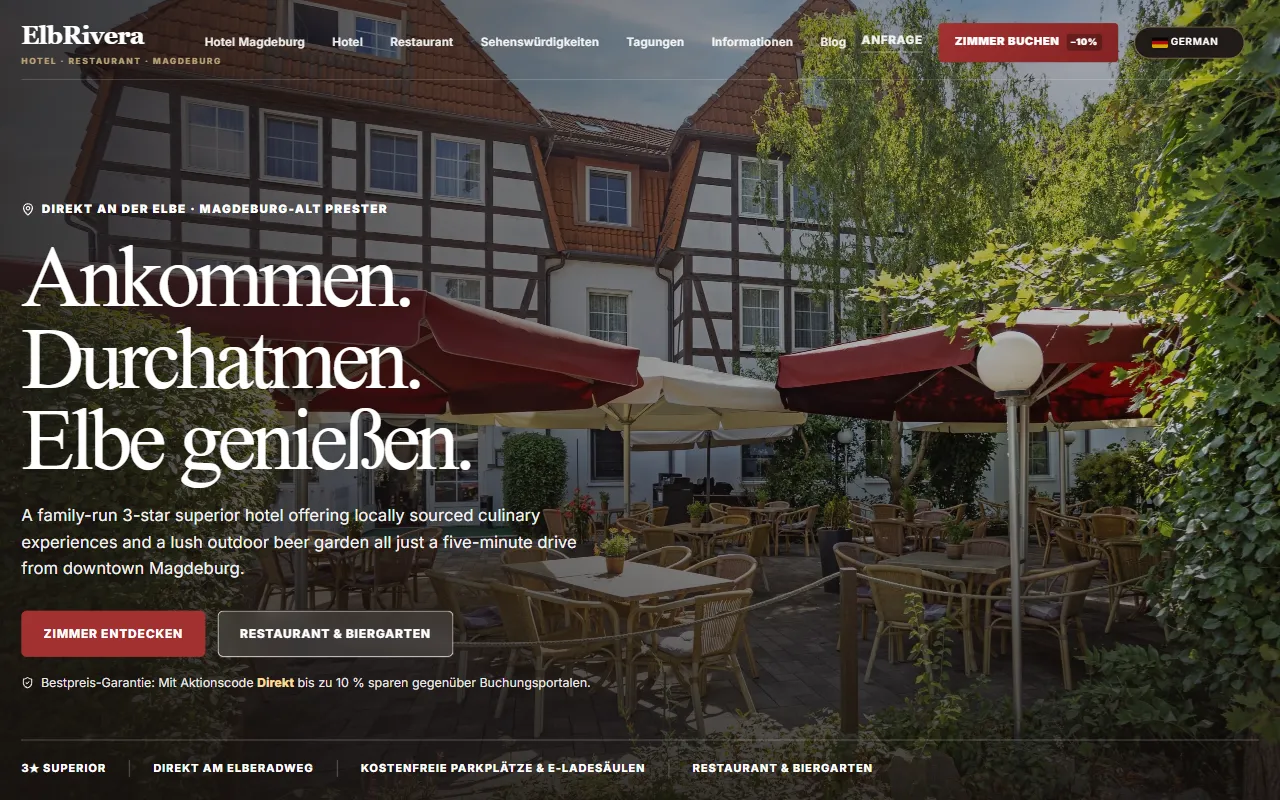
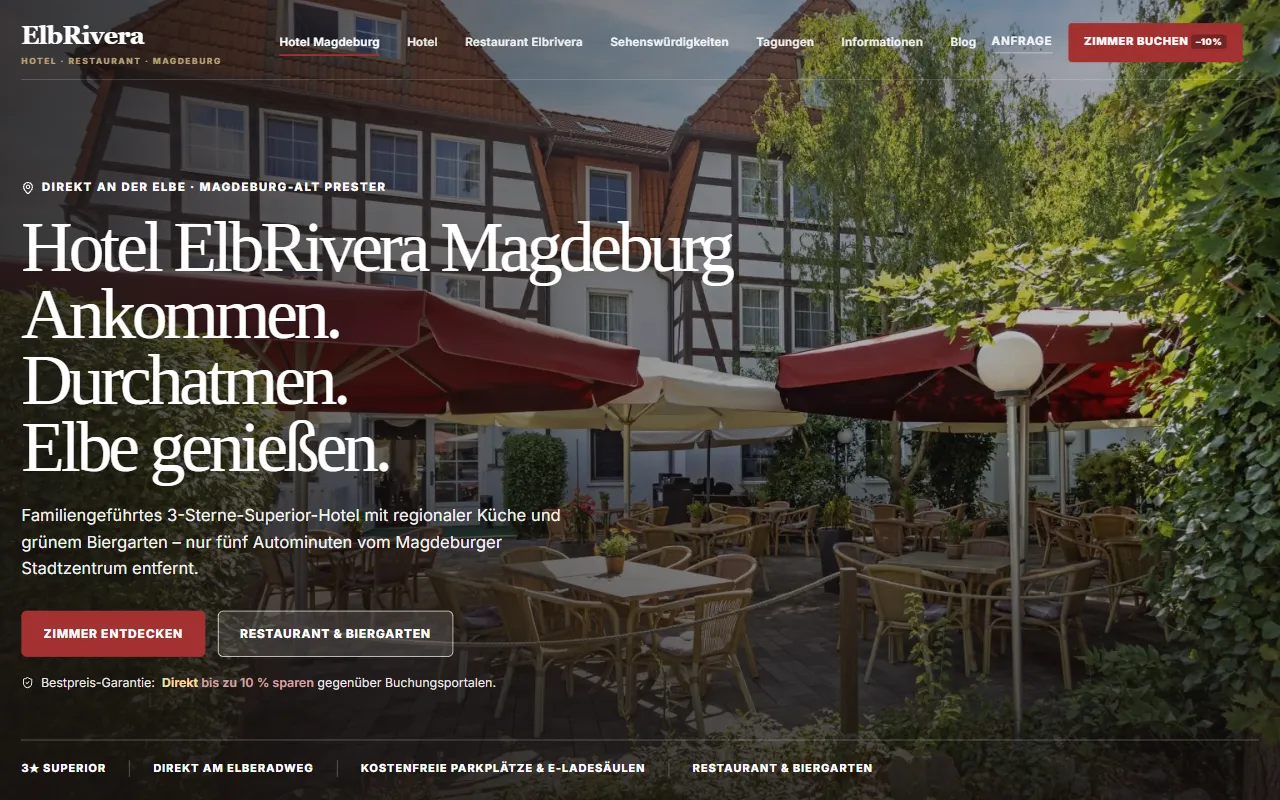
Lead the work grid with hotel websites and link the live ElbRivera site
- Show Hotel ElbRivera, Hotel Metropolis, Hotel Golden Pearl and Ratswaage
  first, then Langbar and the remaining projects in their original order
- Point Hotel ElbRivera at https://www.hotel-elbrivera.de/ and recapture
  its preview from the live site
- Keep the grid's wide/pair rhythm by assigning card sizes by position
- Mention the hotel-first order in the work intro and README
- Test the live link and the hotel-first order

diff --git a/app/page.tsx b/app/page.tsx
@@ -1,9 +1,23 @@
 /* eslint-disable @next/next/no-img-element */
 import { Arrow } from "./arrow";
 
+// Hotel websites lead, then everything else. The grid alternates a wide card,
+// a pair, then a mirrored wide card, so `size` follows position, not project.
 const projects = [
   {
     number: "01",
+    title: "Hotel ElbRivera",
+    type: "Hospitality · Magdeburg",
+    description:
+      "A conversion-led hospitality experience translating riverside stays, wellness, F&B and events into one clearer guest journey.",
+    image: "hotel-elbrivera",
+    url: "https://www.hotel-elbrivera.de/",
+    displayUrl: "hotel-elbrivera.de / Magdeburg",
+    accent: "accent-river",
+    size: "project-wide",
+  },
+  {
+    number: "02",
     title: "Hotel Metropolis",
     type: "Hospitality · Srinagar",
     description:
@@ -11,101 +25,22 @@ const projects = [
     image: "hotel-metropolis",
     url: "https://hotelmetropolis.in/",
     accent: "accent-forest",
-    size: "project-wide",
-  },
-  {
-    number: "02",
-    title: "CrickRoo",
-    type: "Sports technology",
-    description:
-      "A high-energy product site for cricket training intelligence, built to make performance feel tangible.",
-    image: "crickroo",
-    url: "https://www.crickroo.com/",
-    accent: "accent-orange",
     size: "",
   },
   {
     number: "03",
-    title: "Synterra Tech Labs",
-    type: "Technology studio",
-    description:
-      "A precise editorial identity for a software studio building scalable web, mobile, AI and cloud products.",
-    image: "synterra",
-    url: "https://synterra-technologies.vercel.app/",
-    accent: "accent-stone",
-    size: "",
-  },
-  {
-    number: "04",
-    title: "Hormone Nutrition Clinic",
-    type: "Health & wellness",
-    description:
-      "A trustworthy, welcoming care experience that makes clinical nutrition feel human and approachable.",
-    image: "hormone-nutrition",
-    url: "https://www.hormonenutritionclinic.com/",
-    accent: "accent-sage",
-    size: "project-wide",
-  },
-  {
-    number: "05",
-    title: "Ambur Cold Chain",
-    type: "Food & logistics",
-    description:
-      "A confident B2B presence for a modern cold-chain operation, from orchard to controlled storage.",
-    image: "ambur",
-    url: "https://ambur.co.in/",
-    accent: "accent-slate",
-    size: "",
-  },
-  {
-    number: "06",
-    title: "Tripund Technologies",
-    type: "Digital product agency",
-    description:
-      "A clean, contemporary agency site positioning an end-to-end team for ambitious digital products.",
-    image: "tripund",
-    url: "https://tripundtechnologies.in/",
-    accent: "accent-amber",
-    size: "",
-  },
-  {
-    number: "07",
-    title: "Hotel ElbRivera",
+    title: "Hotel Golden Pearl",
     type: "Hospitality · Magdeburg",
     description:
-      "A conversion-led hospitality experience translating riverside stays, wellness, F&B and events into one clearer guest journey.",
-    image: "hotel-elbrivera",
-    url: "https://www2.hotel-elbrivera.de/hotel-magdeburg-concept-a-vorschau-entwurf/",
-    displayUrl: "hotel-elbrivera.de / Magdeburg",
-    accent: "accent-river",
-    size: "project-wide",
-  },
-  {
-    number: "08",
-    title: "Langbar Berlin",
-    type: "Hospitality · Berlin",
-    description:
-      "A vivid Berlin bar experience built around atmosphere, place and a sharper conversion path.",
-    image: "langbar-berlin",
-    url: "https://langbar-berlin-concept.vercel.app/",
-    displayUrl: "langbar-berlin.de / Route 01",
+      "A warm, premium hotel experience presenting rooms, dining and direct booking with a clear editorial rhythm.",
+    image: "hotel-golden-pearl",
+    url: "https://hotel-golden-pearl.vercel.app/",
+    displayUrl: "golden-pearl.de / Magdeburg",
     accent: "accent-brass",
     size: "",
   },
   {
-    number: "09",
-    title: "Langbar Berlin — Night Edit",
-    type: "Hospitality · Berlin",
-    description:
-      "A more editorial, night-led identity for Langbar Berlin with a clear path from discovery to reservation.",
-    image: "langbar-berlin-night",
-    url: "https://langbar-berlin-concept-2.vercel.app/",
-    displayUrl: "langbar-berlin.de / Night edit",
-    accent: "accent-bronze",
-    size: "",
-  },
-  {
-    number: "10",
+    number: "04",
     title: "Ratswaage Hotel Magdeburg",
     type: "Hospitality · Magdeburg",
     description:
@@ -117,15 +52,82 @@ const projects = [
     size: "project-wide",
   },
   {
-    number: "11",
-    title: "Hotel Golden Pearl",
-    type: "Hospitality · Magdeburg",
+    number: "05",
+    title: "Langbar Berlin",
+    type: "Hospitality · Berlin",
     description:
-      "A warm, premium hotel experience presenting rooms, dining and direct booking with a clear editorial rhythm.",
-    image: "hotel-golden-pearl",
-    url: "https://hotel-golden-pearl.vercel.app/",
-    displayUrl: "golden-pearl.de / Magdeburg",
+      "A vivid Berlin bar experience built around atmosphere, place and a sharper conversion path.",
+    image: "langbar-berlin",
+    url: "https://langbar-berlin-concept.vercel.app/",
+    displayUrl: "langbar-berlin.de / Route 01",
     accent: "accent-brass",
+    size: "",
+  },
+  {
+    number: "06",
+    title: "Langbar Berlin — Night Edit",
+    type: "Hospitality · Berlin",
+    description:
+      "A more editorial, night-led identity for Langbar Berlin with a clear path from discovery to reservation.",
+    image: "langbar-berlin-night",
+    url: "https://langbar-berlin-concept-2.vercel.app/",
+    displayUrl: "langbar-berlin.de / Night edit",
+    accent: "accent-bronze",
+    size: "",
+  },
+  {
+    number: "07",
+    title: "CrickRoo",
+    type: "Sports technology",
+    description:
+      "A high-energy product site for cricket training intelligence, built to make performance feel tangible.",
+    image: "crickroo",
+    url: "https://www.crickroo.com/",
+    accent: "accent-orange",
+    size: "project-wide",
+  },
+  {
+    number: "08",
+    title: "Synterra Tech Labs",
+    type: "Technology studio",
+    description:
+      "A precise editorial identity for a software studio building scalable web, mobile, AI and cloud products.",
+    image: "synterra",
+    url: "https://synterra-technologies.vercel.app/",
+    accent: "accent-stone",
+    size: "",
+  },
+  {
+    number: "09",
+    title: "Hormone Nutrition Clinic",
+    type: "Health & wellness",
+    description:
+      "A trustworthy, welcoming care experience that makes clinical nutrition feel human and approachable.",
+    image: "hormone-nutrition",
+    url: "https://www.hormonenutritionclinic.com/",
+    accent: "accent-sage",
+    size: "",
+  },
+  {
+    number: "10",
+    title: "Ambur Cold Chain",
+    type: "Food & logistics",
+    description:
+      "A confident B2B presence for a modern cold-chain operation, from orchard to controlled storage.",
+    image: "ambur",
+    url: "https://ambur.co.in/",
+    accent: "accent-slate",
+    size: "project-wide",
+  },
+  {
+    number: "11",
+    title: "Tripund Technologies",
+    type: "Digital product agency",
+    description:
+      "A clean, contemporary agency site positioning an end-to-end team for ambitious digital products.",
+    image: "tripund",
+    url: "https://tripundtechnologies.in/",
+    accent: "accent-amber",
     size: "",
   },
   {
@@ -244,8 +246,9 @@ export default function Home() {
             <p className="section-kicker">Our work / 2024–26</p>
             <h2>Our work, on the web.</h2>
             <p>
-              Landing-page previews across hospitality, technology, health, food and
-              product brands. Open any project to explore the full website.
+              Our hotel websites come first, followed by landing pages across
+              hospitality, technology, health, food and product brands. Open any
+              project to explore the full website.
             </p>
           </div>
 

diff --git a/README.md b/README.md
@@ -8,17 +8,19 @@ and a tailored Hotel ElbRivera website audit.
 
 ## Selected work
 
+Hotel websites are listed first, then the rest of the work.
+
+- [Hotel ElbRivera](https://www.hotel-elbrivera.de/)
 - [Hotel Metropolis](https://hotelmetropolis.in/)
-- [Ambur Cold Chain](https://ambur.co.in/)
-- [Synterra Tech Labs](https://synterra-technologies.vercel.app/)
-- [CrickRoo](https://www.crickroo.com/)
-- [Hormone Nutrition Clinic](https://www.hormonenutritionclinic.com/)
-- [Tripund Technologies](https://tripundtechnologies.in/)
-- [Hotel ElbRivera](https://www2.hotel-elbrivera.de/hotel-magdeburg-concept-a-vorschau-entwurf/)
+- [Hotel Golden Pearl](https://hotel-golden-pearl.vercel.app/)
+- [Ratswaage Hotel Magdeburg](https://ratswaage-hotel-magdeburg.vercel.app/)
 - [Langbar Berlin](https://langbar-berlin-concept.vercel.app/)
 - [Langbar Berlin — Night Edit](https://langbar-berlin-concept-2.vercel.app/)
-- [Ratswaage Hotel Magdeburg](https://ratswaage-hotel-magdeburg.vercel.app/)
-- [Hotel Golden Pearl](https://hotel-golden-pearl.vercel.app/)
+- [CrickRoo](https://www.crickroo.com/)
+- [Synterra Tech Labs](https://synterra-technologies.vercel.app/)
+- [Hormone Nutrition Clinic](https://www.hormonenutritionclinic.com/)
+- [Ambur Cold Chain](https://ambur.co.in/)
+- [Tripund Technologies](https://tripundtechnologies.in/)
 - [AFS National AI Hackathon](https://afsnationalaihackathon.vercel.app/)
 
 ## Our research
